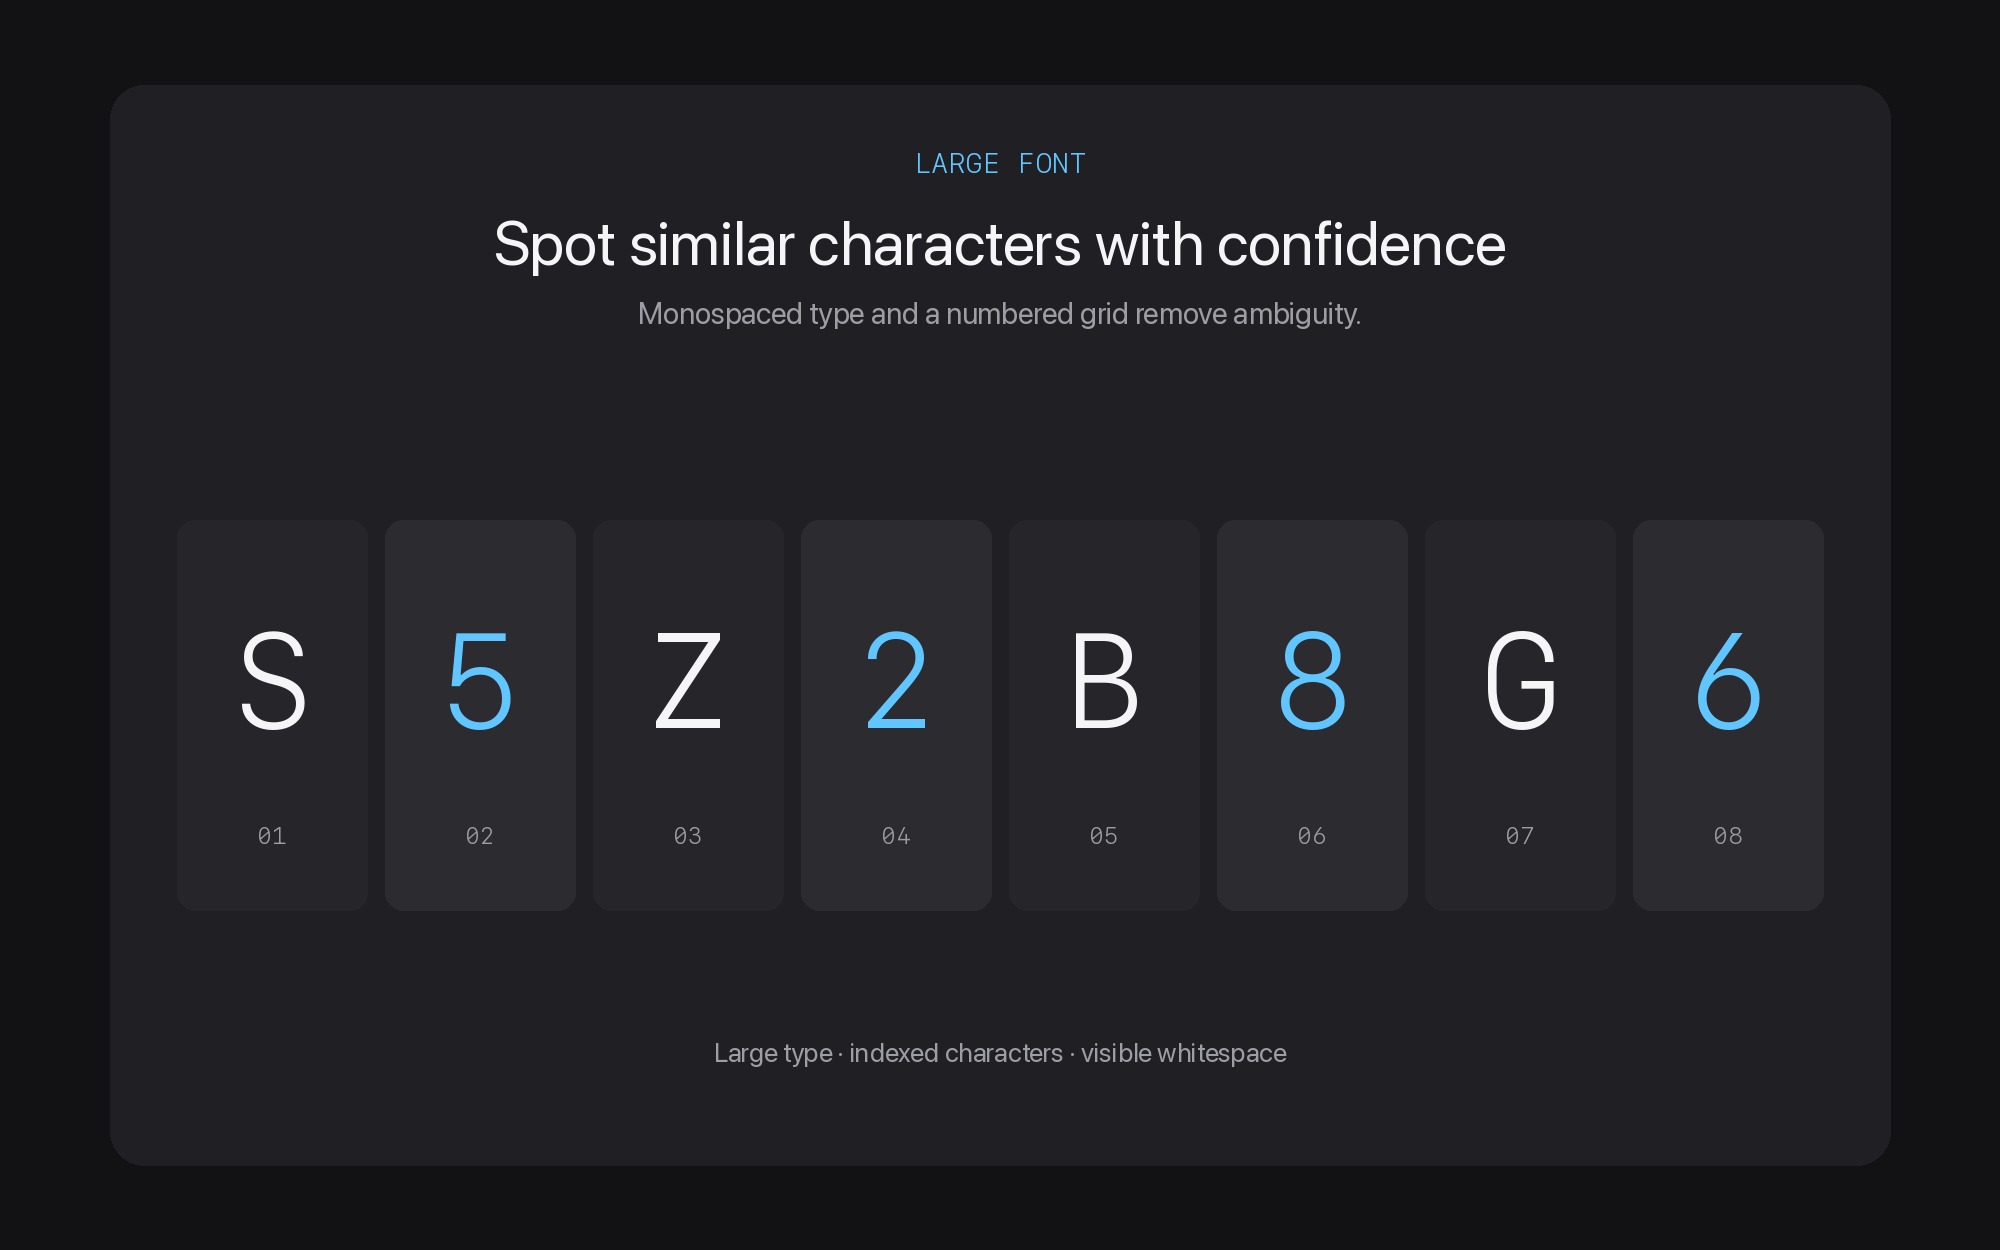
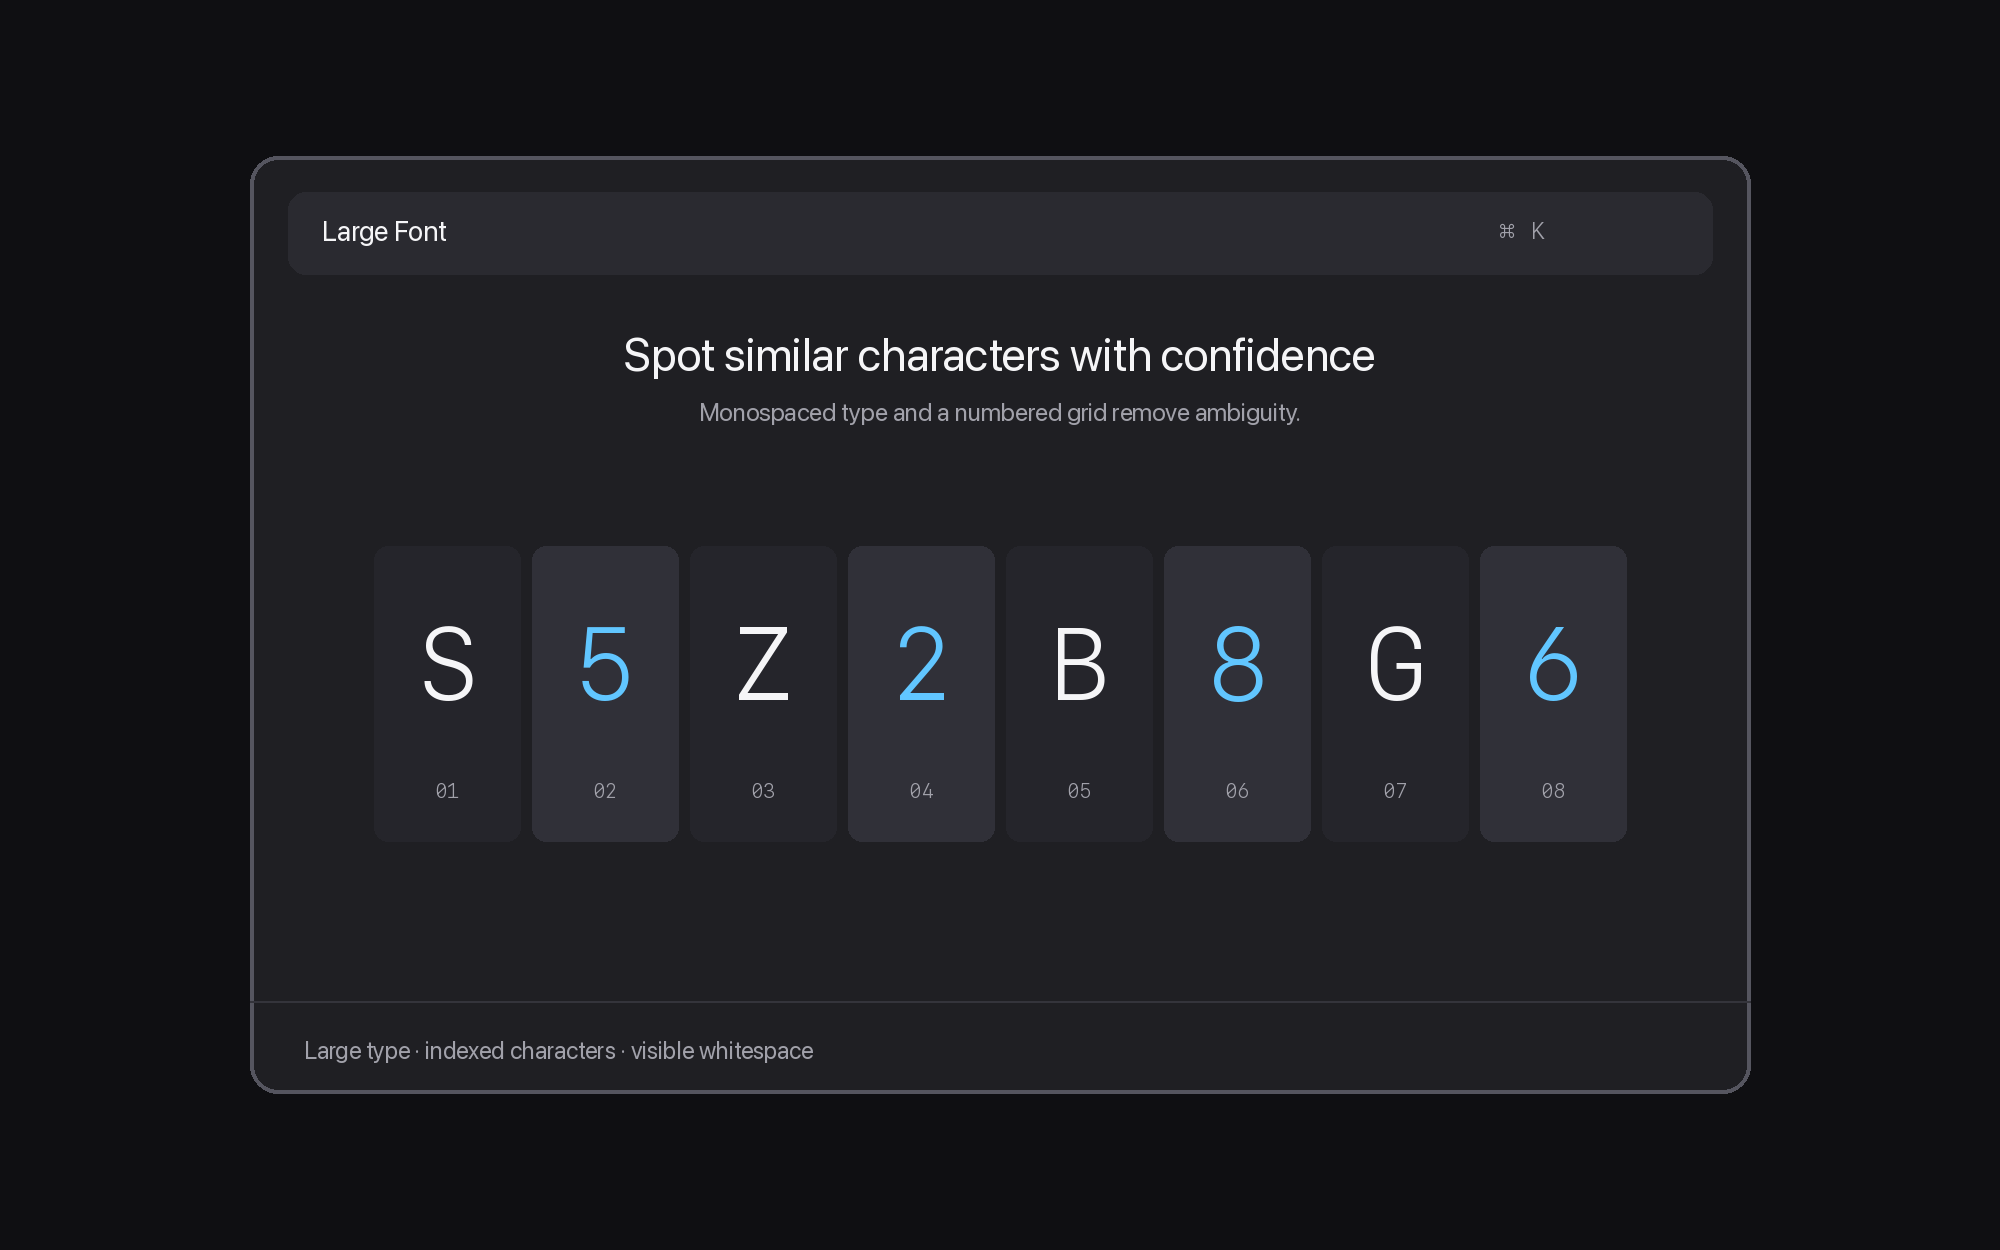
Fix Raycast publishing checks

diff --git a/CHANGELOG.md b/CHANGELOG.md
@@ -1,0 +1,7 @@
+# Large Font Changelog
+
+## [Initial Version] - {PR_MERGE_DATE}
+
+- Add command to show selected text in a large indexed character grid.
+- Add visible whitespace indicators for spaces, tabs, and line breaks.
+- Add color coding for numbers and punctuation to help distinguish ambiguous characters.
